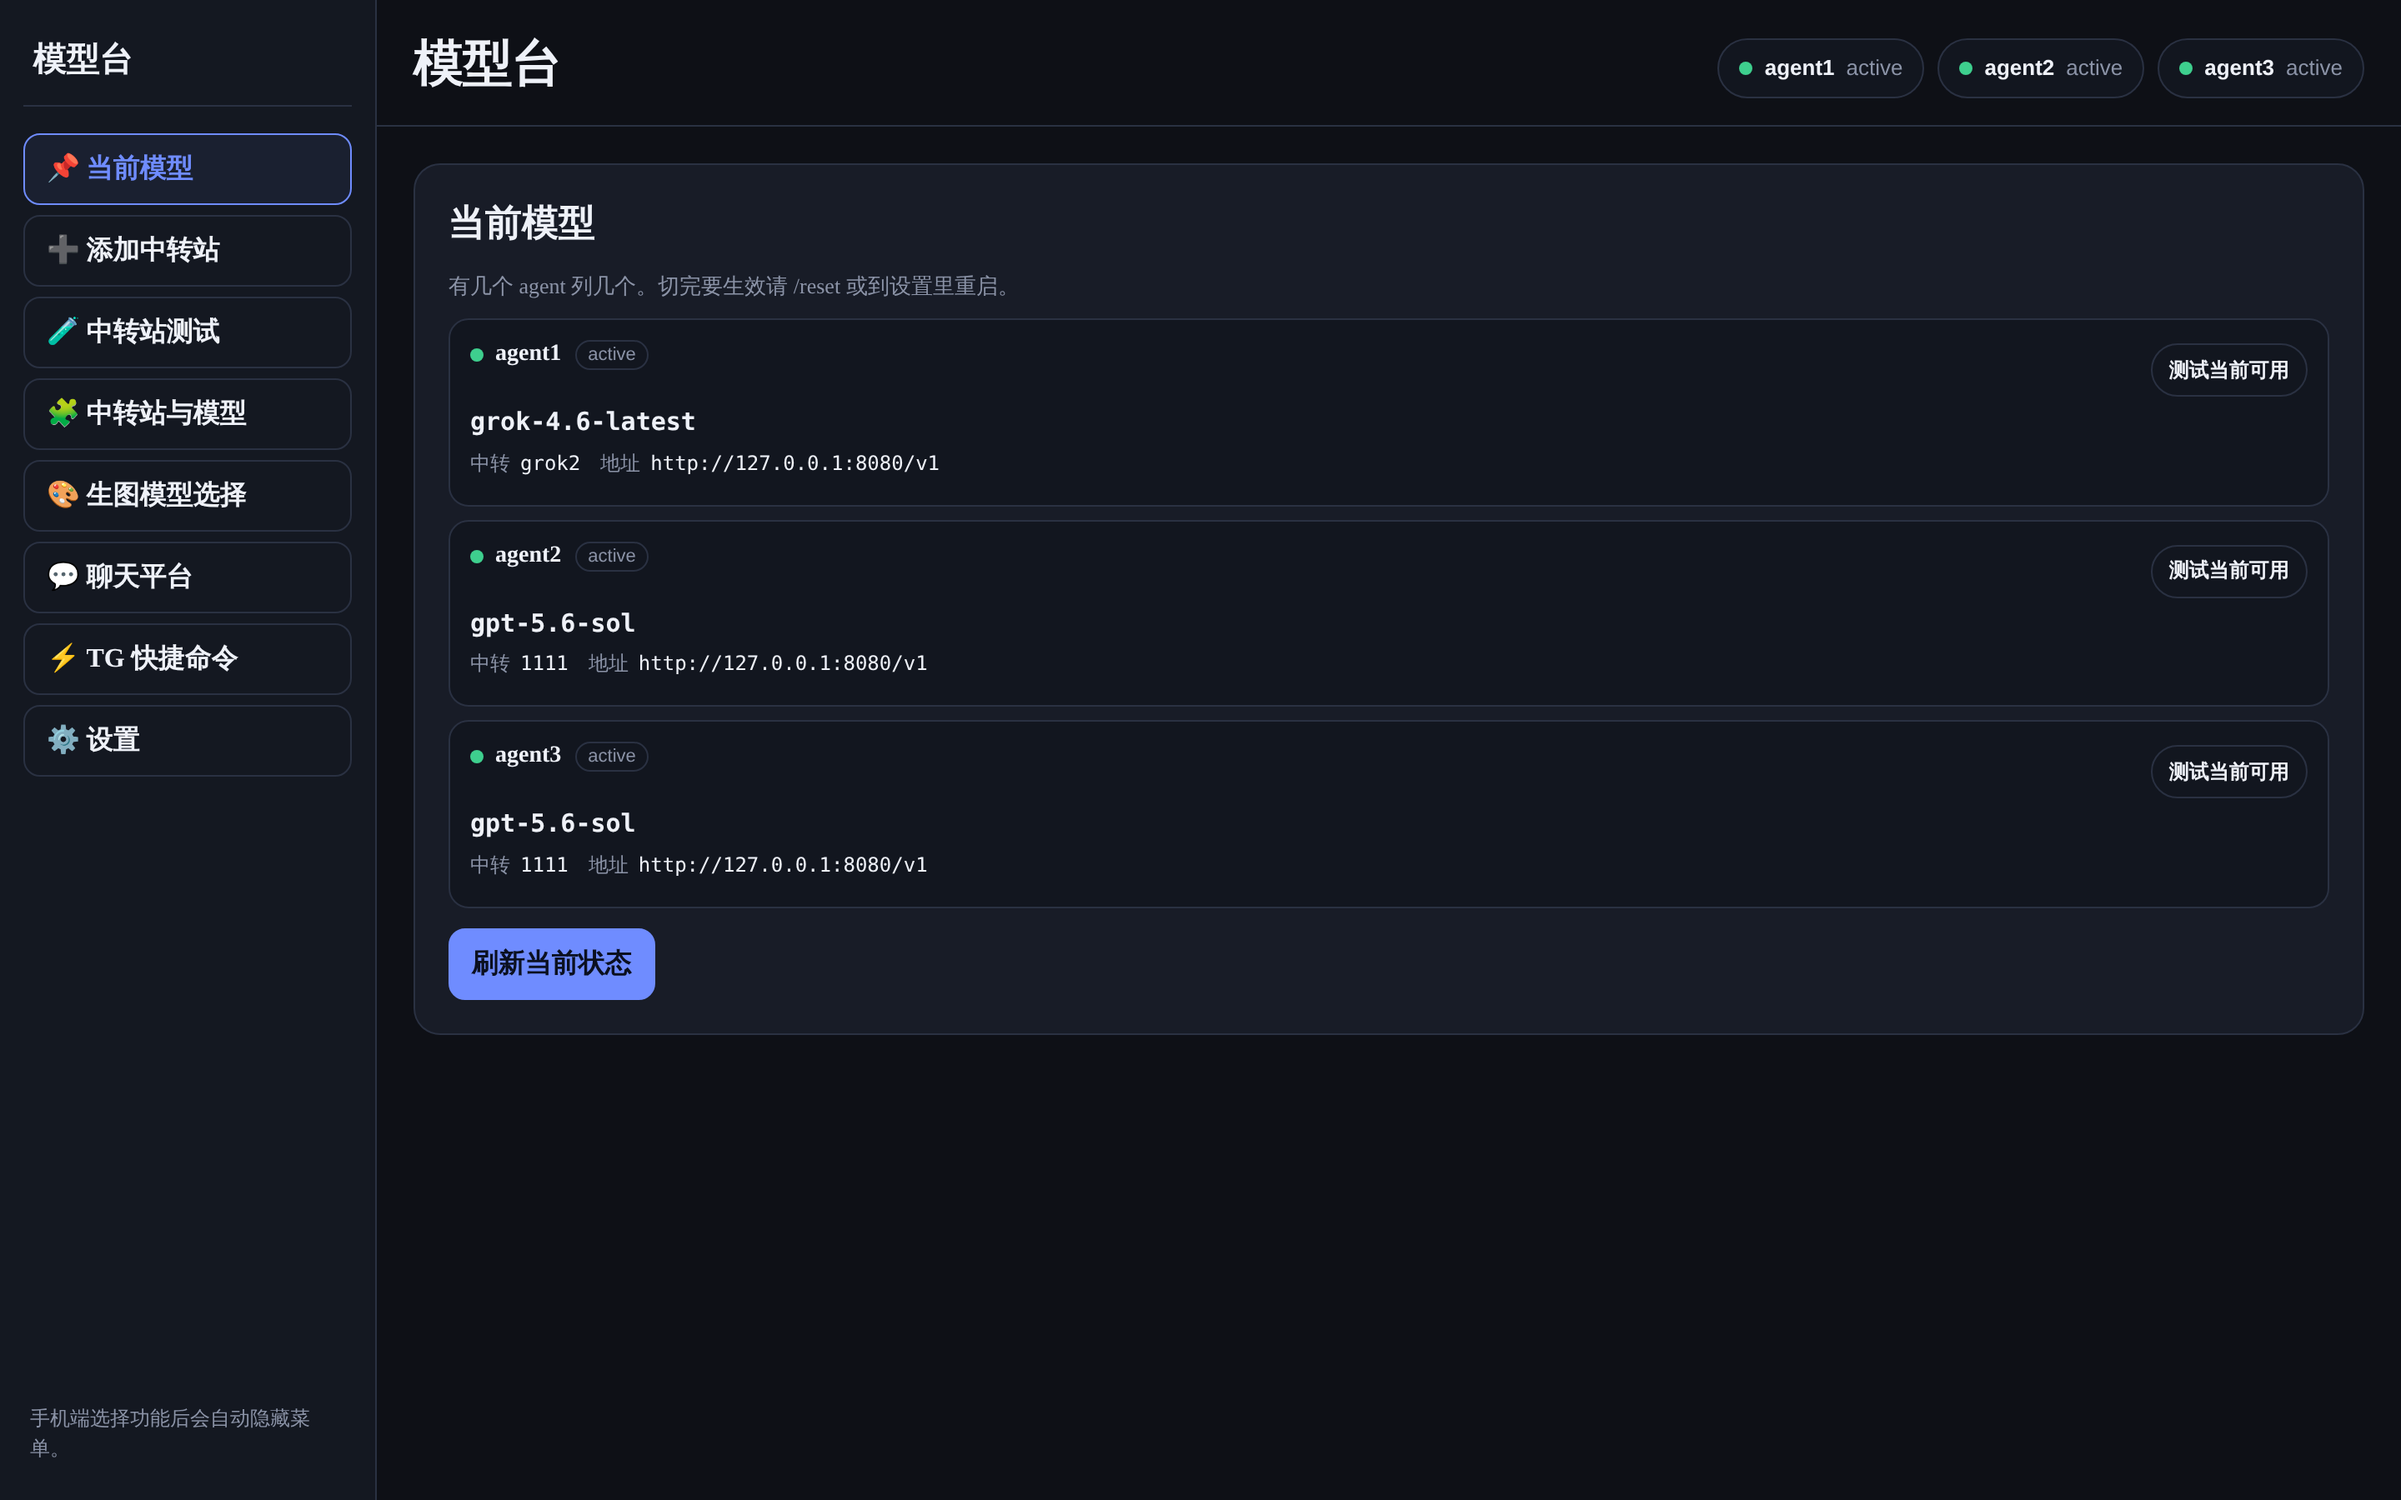
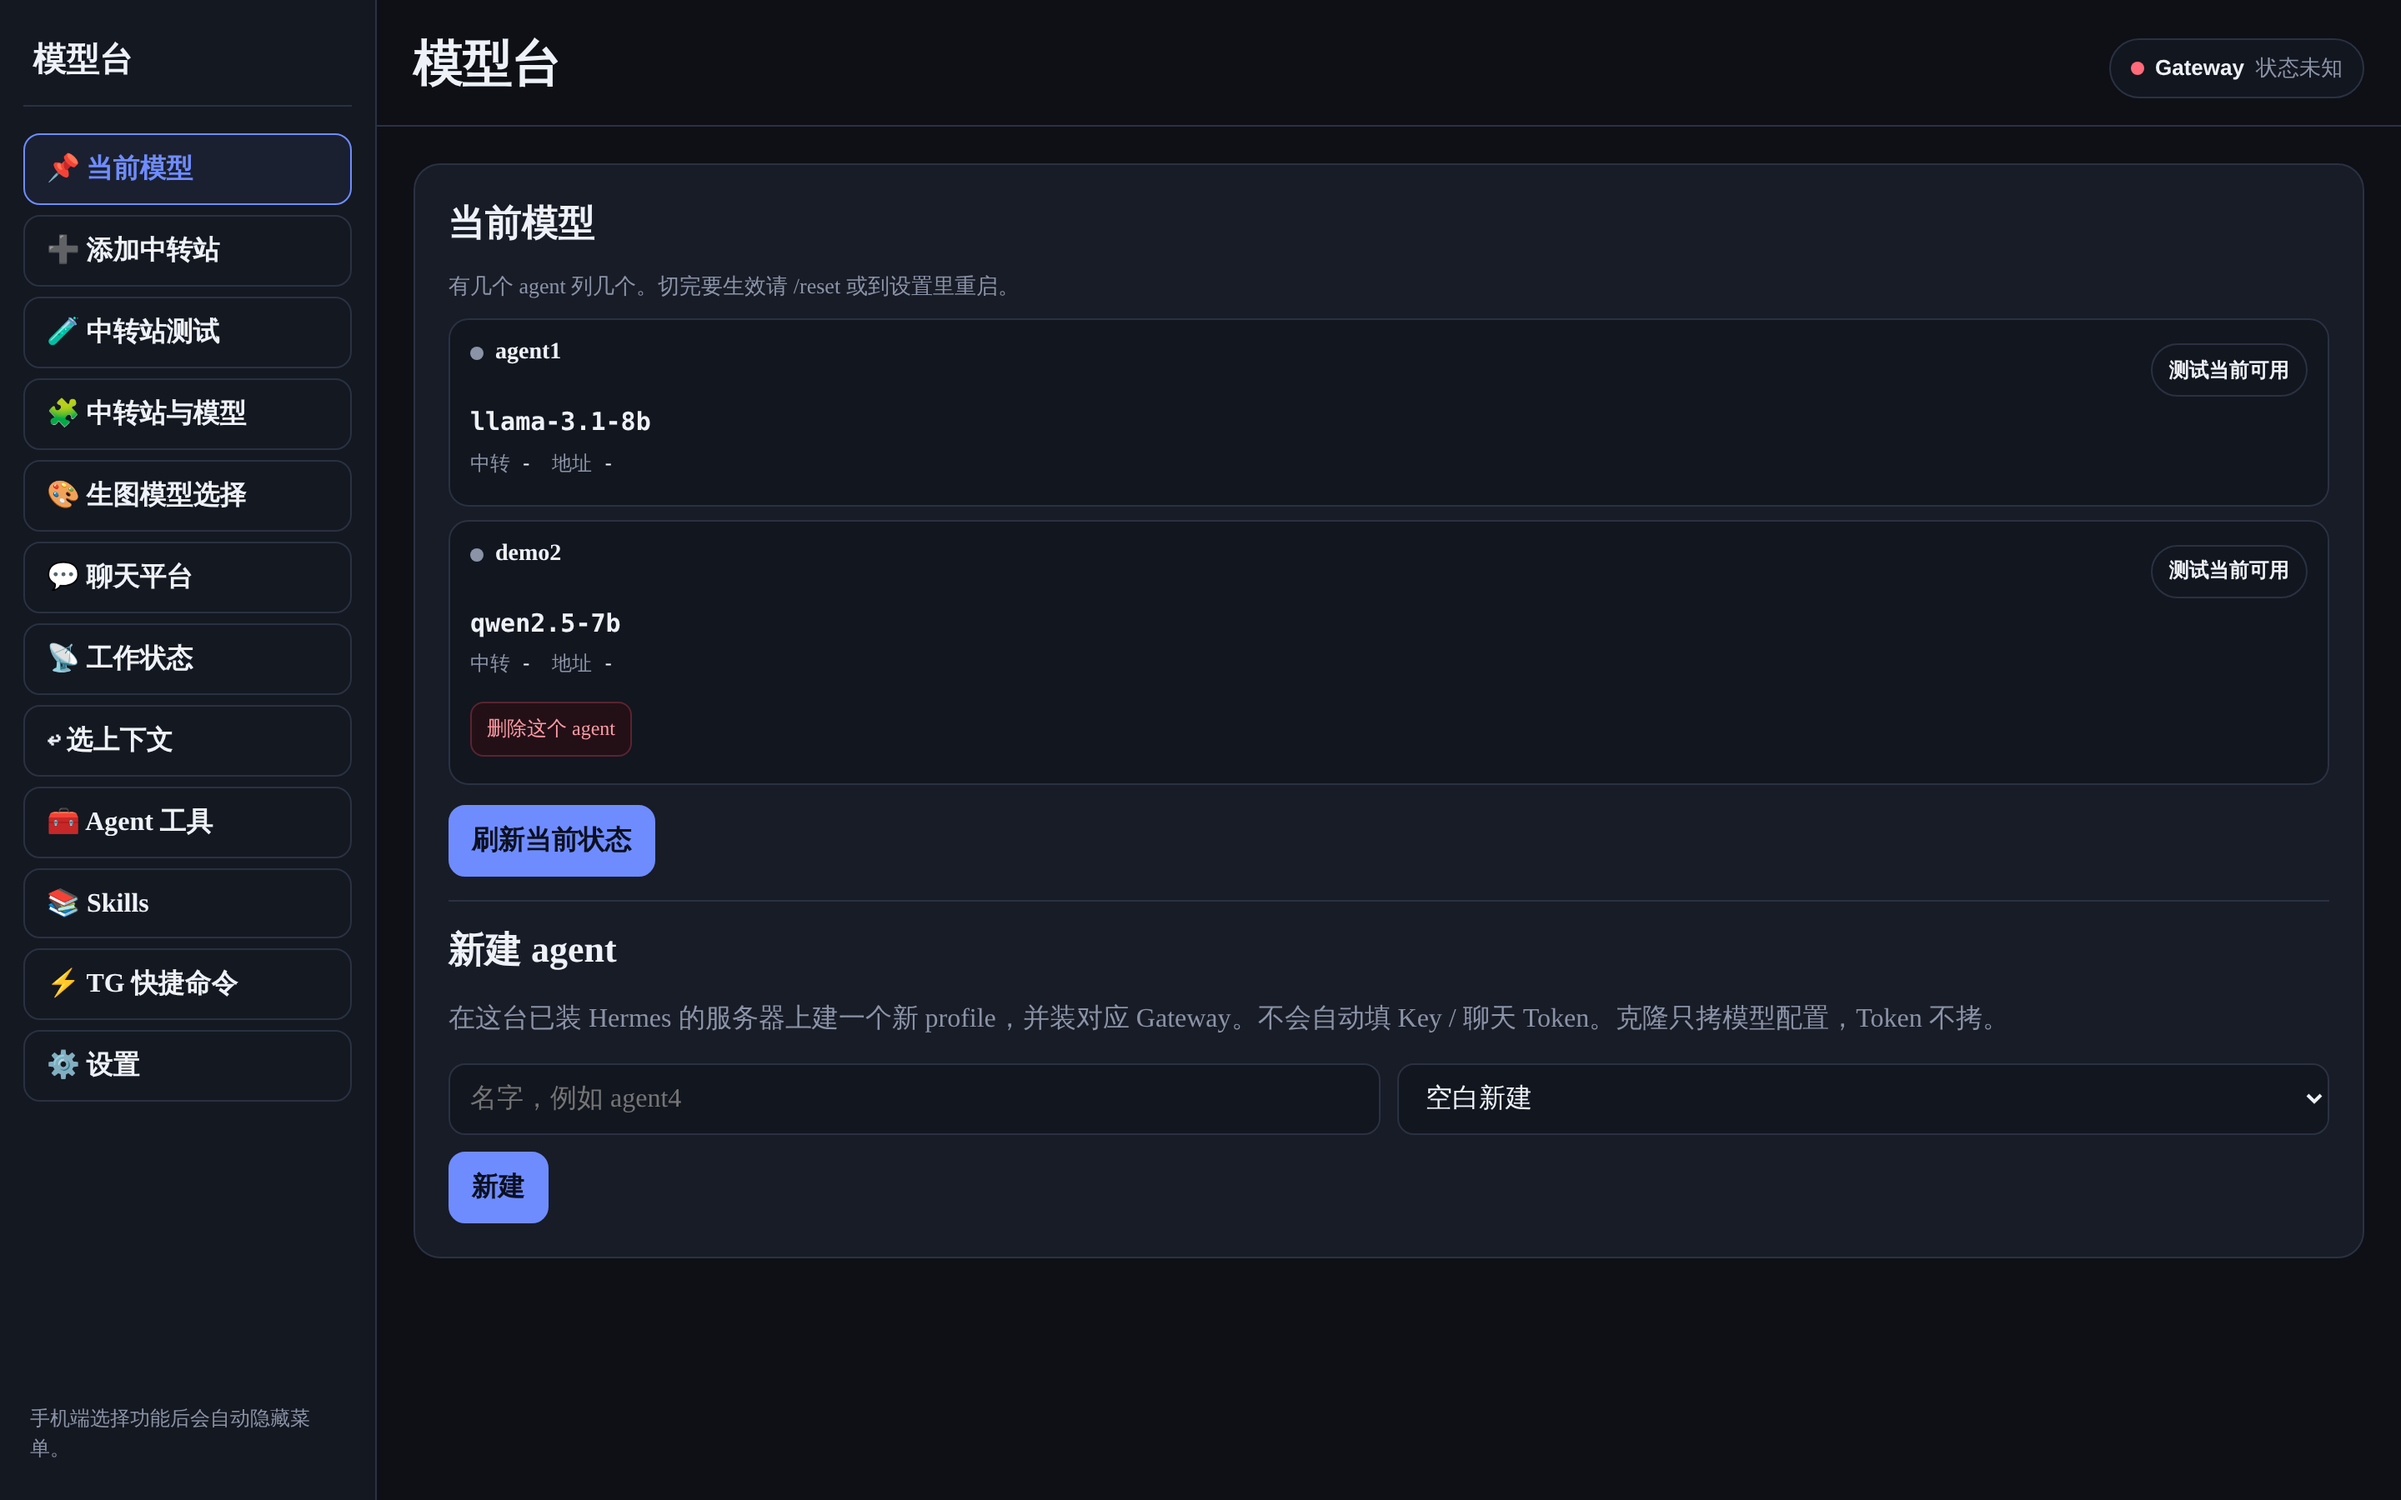
Refresh README screenshots with sanitized demo data
Captured from a local demo home (Agent1/Demo2, sample skills). No production hostnames, tokens, or chat names.

diff --git a/README.en.md b/README.en.md
@@ -16,6 +16,12 @@ A small dark-theme web panel for an **already-installed** [Hermes Agent](https:/
 <p align="center">
   <img src="docs/images/panel-platforms.png" alt="Chat platforms" width="720">
 </p>
+<p align="center">
+  <img src="docs/images/panel-tools.png" alt="Agent tools" width="720">
+</p>
+<p align="center">
+  <img src="docs/images/panel-skills.png" alt="Skills" width="720">
+</p>
 
 ## What you get
 

diff --git a/README.md b/README.md
@@ -16,6 +16,12 @@
 <p align="center">
   <img src="docs/images/panel-platforms.png" alt="聊天平台" width="720">
 </p>
+<p align="center">
+  <img src="docs/images/panel-tools.png" alt="Agent 工具" width="720">
+</p>
+<p align="center">
+  <img src="docs/images/panel-skills.png" alt="Skills" width="720">
+</p>
 
 ## 能干什么
 
